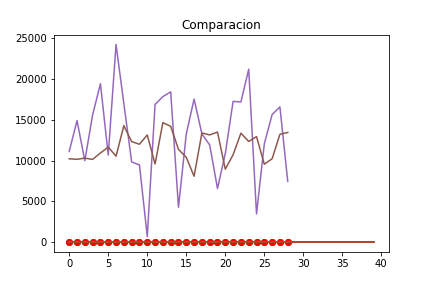
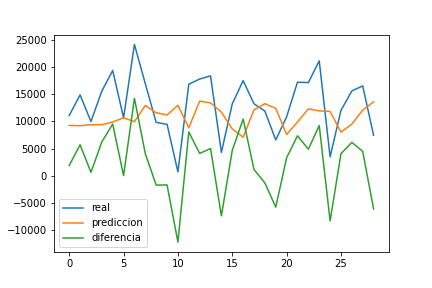
new functions

diff --git a/run.py b/run.py
@@ -4,6 +4,8 @@ from src.data.make_dataset import xlsx_to_csv, split_train_test
 from src.features.build_features import build_feature, series_to_supervised
 from src.models.train_model import train
 from src.models.predict_model import predict
+from src.metrics.metrics import create_table_metrics, mean_absolute_deviation
+from src.visualization.visualize import scaling_comparison, scaling_histogram_comparison
 
 from sklearn.metrics import mean_squared_error, mean_absolute_error, mean_absolute_percentage_error
 
@@ -28,9 +30,9 @@ mayor facilidad y extrae las columnas necesarias.
 """
 xlsx_to_csv(INPUT_FILE, sheet_name='venta_diaria', cols=['FECHA', 'VV'], output=INTER_FILE)
 
-split_train_test(INTER_FILE, 
+split_train_test(INTER_FILE,
                  train_range=["2017-01-02", "2020-12-31"], 
-                 test_range=["2021-01-02", "2021-09-23"], 
+                 test_range=["2021-01-02", "2021-09-23"],
                  output_path=INTER_PATH)
 
 """ Creamos los features extraer los datos que alimenta el modelo el 7 verlo en el colob
@@ -40,7 +42,13 @@ de predicción. Y retorna el scaler usado en nuestros datos para posteriores
 predicciones.
 """
 PASOS = 7
-scaler = build_feature(INTER_PATH + "inter_train.csv", PASOS, PROCC_FILE)
+scaler, data, scaled = build_feature(INTER_PATH + "inter_train.csv", PASOS, PROCC_FILE)
+
+"""
+Plot scaling info
+"""
+scaling_comparison(data, scaled, FIGUR_PATH + "scaling_comparison.png")
+scaling_histogram_comparison(data, scaled, FIGUR_PATH + "scaling_histogram_comparison.png")
 
 # Aqui se activa el rastreado de memoria para saber el consumo de memoria en el modelo (antes de correr el modelo)
 tracemalloc.start()
@@ -57,7 +65,7 @@ Carga el modelo con la estructura necesaria para nuestros datos.
 Realiza la predicción y retorna los dataset de entrenamiento, validación,
 el modelo, y las métricas.
 """
-EPOCHS = 40
+EPOCHS = 70
 x_train, y_train, x_val, y_val, history, model = train(PROCC_FILE, PASOS, EPOCHS, MODEL_FILE)
 
 history.history['loss']
@@ -74,26 +82,36 @@ history.history['val_mape']
 Realiza la predicción cargando el modelo previamente guardado.
 """
 results = predict(MODEL_FILE, x_val)
-print( len(results) )
+print(len(results))
 
 """ Reports """
 plt.scatter(range(len(y_val)), y_val,c='g')
 plt.scatter(range(len(results)), results,c='r')
 plt.title('validate')
 plt.savefig(FIGUR_PATH + "validate.png")
+plt.show()
 
 plt.plot(history.history['loss'])
 plt.title('loss')
 plt.savefig(FIGUR_PATH + "loss.png")
+plt.show()
 
 plt.plot(history.history['val_loss'])
 plt.title('validate loss')
 plt.savefig(FIGUR_PATH + "validate_loss.png")
+plt.show()
 
 plt.plot(history.history['mse'])
 plt.plot(history.history['val_mse'])
 plt.title('Accuracy')
 plt.savefig(FIGUR_PATH + "accuracy.png")
+plt.show()
+
+"""
+Saca las metricas en una tabla por cada prediccion
+"""
+df_res = create_table_metrics(y_val, results)
+df_res.to_csv('./reports/data/comparacion_metrics.csv')
 
 """
 ********************************************************************
@@ -102,9 +120,7 @@ plt.savefig(FIGUR_PATH + "accuracy.png")
 """COMPARACION DE LOS DATOS REALES Y PREDICTIVOS"""
 compara = pd.DataFrame(np.array([y_val, [x[0] for x in results]])).transpose()
 compara.columns = ['real', 'prediccion']
-inverted = scaler.inverse_transform(compara.values)
-inverted
-compara.values
+inverted = scaler.inverse_transform(compara)
 
 compara2 = pd.DataFrame(inverted)
 compara2.columns = ['real', 'prediccion']
@@ -115,10 +131,9 @@ compara2.describe()
 
 compara2[['real',	'prediccion',	'diferencia']]
 compara2.describe()
+compara2.to_csv('./reports/data/comparacion.csv')
 
-plt.plot(compara2['real'])
-plt.plot(compara2['prediccion'])
-plt.title("Comparacion")
+compara2.plot()
 plt.savefig(FIGUR_PATH + "comparacion.png")
 
 """
@@ -149,14 +164,24 @@ print(x_test.shape)
 """PREDICCION"""
 y_pred = model.predict(x_test)
 
+"""
+Saca las metricas en una tabla por cada prediccion
+"""
+df_res = create_table_metrics(y_test, y_pred)
+df_res.to_csv('./reports/data/pronostico_metrics.csv')
+
 """METRICAS"""
 mse = mean_squared_error(y_test, y_pred)
 mae = mean_absolute_error(y_test, y_pred)
 mape = mean_absolute_percentage_error(y_test, y_pred)
+mad_real = mean_absolute_deviation(y_test)
+mad_pred = mean_absolute_deviation(y_pred)
 print("Metricas para primera semana: \n")
 print(f"MSE: {mse}")
 print(f"MAE: {mae}")
 print(f"MAPE: {mape}")
+print(f"MAD real: {mad_real}")
+print(f"MAD pred: {mad_pred}")
 print("\n\n")
 
 """GRAFICOS"""
@@ -167,7 +192,6 @@ print(y_pred_inv)
 print("\n")
 
 """## Visualizamos el pronóstico"""
-y_pred_inv = y_pred_inv.reshape(())
 df_pronostico = pd.DataFrame({"real": y_test_inv.ravel(), "pronostico": y_pred_inv.ravel()})
 df_pronostico.to_csv('./reports/data/pronostico.csv')
 

diff --git a/src/metrics/metrics.py b/src/metrics/metrics.py
@@ -1,0 +1,29 @@
+# -*- coding: utf-8 -*-
+
+import pandas as pd
+import numpy as np
+
+from sklearn.metrics import mean_squared_error, mean_absolute_error, mean_absolute_percentage_error
+
+def create_table_metrics(y_true, y_pred):
+    
+    data = np.column_stack((y_true.ravel(), y_pred.ravel()))
+    err = []                           
+    mse = []
+    mae = []
+    mape = []
+    
+    for i in range(0, y_true.shape[0]):
+        err.append(data[i:i+1, 0] - data[i:i+1, 1])
+        mse.append(mean_squared_error(data[i:i+1, 0], data[i:i+1, 1]))
+        mae.append(mean_absolute_error(data[i:i+1, 0], data[i:i+1, 1]))
+        mape.append(mean_absolute_percentage_error(data[i:i+1, 0], data[i:i+1, 1]))
+    
+    data = np.column_stack((data, err, mse, mae, mape))
+    df = pd.DataFrame(data)
+    df.columns = ["real", "pred", "err", "mse", "mae", "mape"]
+    
+    return df
+
+def mean_absolute_deviation(data):
+    return np.average(np.abs(data - data.mean()))

diff --git a/src/visualization/visualize.py b/src/visualization/visualize.py
@@ -1,0 +1,17 @@
+# -*- coding: utf-8 -*-
+
+import matplotlib.pyplot as plt
+
+def scaling_comparison(data, scaled, outpath):
+    fig, ax = plt.subplots(nrows=1, ncols=2, figsize=(18,5))    
+    ax[0].plot(data, color="blue")
+    ax[1].plot(scaled, color="green")
+    fig.savefig(outpath)
+    plt.show()
+    
+def scaling_histogram_comparison(data, scaled, outpath):
+    fig, ax = plt.subplots(nrows=1, ncols=2, figsize=(18,5), tight_layout=True)    
+    ax[0].hist(data, bins=20, color="blue")
+    ax[1].hist(scaled, bins=20, color="green")
+    fig.savefig(outpath)
+    plt.show()

diff --git a/src/models/train_model.py b/src/models/train_model.py
@@ -72,7 +72,7 @@ def crear_modeloFF(pasos):
     model.add(Dense(pasos, input_shape=(1,pasos), activation='tanh'))
     model.add(Flatten())
     model.add(Dense(1, activation='tanh'))
-    model.compile(loss='mean_absolute_error', optimizer='Adam', metrics=["mse","mae","mape"])
+    model.compile(loss='mean_absolute_error', optimizer='sgd', metrics=["mse","mae","mape"])
     model.summary()
     return model
 

diff --git a/src/features/build_features.py b/src/features/build_features.py
@@ -32,7 +32,7 @@ def build_feature(input, pasos, output):
     reframed.describe().to_csv(REPORT_DATA_PATH + "feature_describe.csv")
     reframed.to_csv(output, index=False)
 
-    return scaler
+    return scaler, values, scaled
 
 # convert series to supervised learning
 def series_to_supervised(data, n_in=1, n_out=1, dropnan=True):
